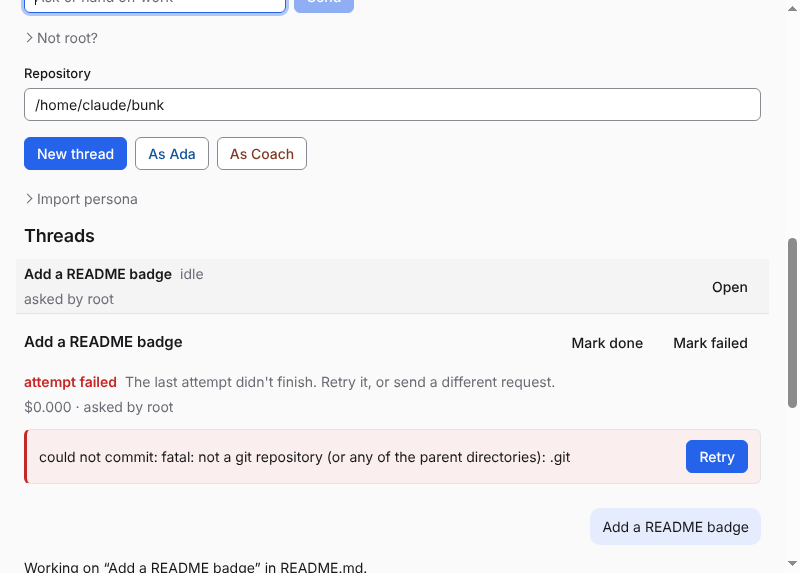
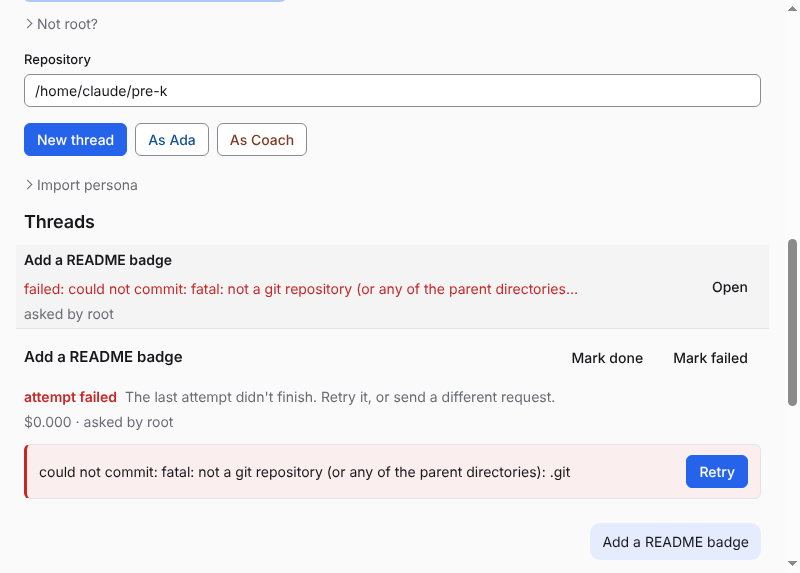
Threads: the list says "failed" when a thread's latest attempt failed
Main follows each pre-k thread's transcript while it works (app/threads/attempts.ts, fed by agents.watchThreads) and
records lastAttempt on its row when a turn ends or the thread comes to rest; threads.start and threads.followUp record
a message Point couldn't deliver. threadState takes the attempt: failed at rest, working again while it retries. The
list row reads "failed: <first line of the error>". Tour screenshots refreshed.

Claude-Session: https://claude.ai/code/session_01Vf1CvuVV6JbuxZTf8p59C4

diff --git a/app/threads/attempts.test.ts b/app/threads/attempts.test.ts
@@ -1,0 +1,92 @@
+import { testClient } from "point/rpc/testing";
+import { afterAll, beforeEach, describe, expect, it } from "vitest";
+import threads from "../collections/threads.collection";
+import outputs from "../collections/thread-outputs.collection";
+import router from "../rpc/threads";
+import { createAttemptWatcher, recordAttempt } from "./attempts";
+
+// In-memory collections through a test client of the threads router.
+const client = testClient(router, { caller: "window:main", collections: { threads, "thread-outputs": outputs } });
+const { collections } = client;
+afterAll(() => client.close());
+
+const row = { threadId: "t1", projectId: "p1", title: "T", request: "r", requestedBy: "Zack", createdAt: 1, updatedAt: 1 };
+beforeEach(() => collections.replace("threads", [row]));
+
+/** A fake agents.events: plays `events`, then stays open until aborted, like the live stream. */
+function fakeStream(events: unknown[]) {
+  const opened: string[] = [];
+  return {
+    opened,
+    rpc: {
+      stream(_path: string, input: unknown, options?: { signal?: AbortSignal }): AsyncIterable<unknown> {
+        opened.push(JSON.stringify(input));
+        return (async function* () {
+          yield* events;
+          await new Promise<void>((resolve) => options?.signal?.addEventListener("abort", () => resolve(), { once: true }));
+        })();
+      },
+    },
+  };
+}
+
+const user = (text: string) => ({ type: "user", text, turn: "start" });
+const end = (status: string) => ({ type: "turn.end", turnId: "x", status });
+const until = async (check: () => boolean) => {
+  for (let i = 0; i < 100 && !check(); i++) await new Promise((r) => setTimeout(r, 5));
+};
+
+describe("createAttemptWatcher", () => {
+  it("records a failed turn on the row while the thread works, and only watches pre-k's threads", async () => {
+    const s = fakeStream([user("a"), { type: "text", itemId: "i", text: "hi", done: true }, { type: "error", message: "boom" }, end("failed")]);
+    const ac = new AbortController();
+    const w = createAttemptWatcher({ rpc: s.rpc, collections, signal: ac.signal, graceMs: 1 });
+    w.update(new Map([["t1", "running"], ["other", "running"]]));
+    await until(() => collections.get("threads", "t1")?.lastAttempt !== undefined);
+    expect(collections.get("threads", "t1")?.lastAttempt).toMatchObject({ failed: true, message: "boom" });
+    expect(s.opened).toEqual([JSON.stringify({ threadId: "t1" })]);
+    // Still busy: the same stream, not a second one.
+    w.update(new Map([["t1", "running"]]));
+    expect(s.opened).toHaveLength(1);
+    ac.abort();
+  });
+
+  it("clears the failure when the next turn completes, and stops reading once the thread is at rest", async () => {
+    await recordAttempt(collections, "t1", true, "boom");
+    const s = fakeStream([user("a"), end("failed"), user("again"), end("completed")]);
+    const ac = new AbortController();
+    const w = createAttemptWatcher({ rpc: s.rpc, collections, signal: ac.signal, graceMs: 1 });
+    w.update(new Map([["t1", "running"]]));
+    w.update(new Map([["t1", "idle"]]));
+    await until(() => collections.get("threads", "t1")?.lastAttempt?.failed === false);
+    expect(collections.get("threads", "t1")?.lastAttempt).toMatchObject({ failed: false });
+    // A later busy spell opens the transcript again.
+    await until(() => false);
+    w.update(new Map([["t1", "starting"]]));
+    expect(s.opened).toHaveLength(2);
+    ac.abort();
+  });
+
+  it("records an attempt whose harness never started once the thread is at rest", async () => {
+    const s = fakeStream([user("a"), { type: "error", message: "missing ANTHROPIC_API_KEY" }]);
+    const ac = new AbortController();
+    const w = createAttemptWatcher({ rpc: s.rpc, collections, signal: ac.signal, graceMs: 1 });
+    w.update(new Map([["t1", "starting"]]));
+    w.update(new Map([["t1", "stopped"]]));
+    await until(() => collections.get("threads", "t1")?.lastAttempt !== undefined);
+    expect(collections.get("threads", "t1")?.lastAttempt).toMatchObject({ failed: true, message: "missing ANTHROPIC_API_KEY" });
+    ac.abort();
+  });
+});
+
+describe("recordAttempt", () => {
+  it("writes a change once and leaves an unknown thread alone", async () => {
+    await recordAttempt(collections, "t1", true, "boom");
+    const first = collections.get("threads", "t1")?.lastAttempt?.at;
+    await new Promise((r) => setTimeout(r, 2));
+    await recordAttempt(collections, "t1", true, "boom");
+    expect(collections.get("threads", "t1")?.lastAttempt?.at).toBe(first);
+    await recordAttempt(collections, "nope", true);
+    expect(collections.get("threads", "nope")).toBeUndefined();
+  });
+});

diff --git a/app/threads/attempts.ts b/app/threads/attempts.ts
@@ -1,0 +1,86 @@
+import type { Collections, MainCalls } from "point/app";
+import type { ThreadEventBody, ThreadStatus } from "point/agent";
+import { z } from "zod";
+import { lastAttempt } from "./state";
+
+// The events an attempt's outcome depends on (Point doesn't export its event schema); the rest are skipped.
+const attemptEvent = z.discriminatedUnion("type", [
+  z.object({ type: z.literal("user"), text: z.string(), turn: z.enum(["start", "steer", "queue"]) }),
+  z.object({ type: z.literal("turn.end"), turnId: z.string(), status: z.enum(["completed", "interrupted", "failed"]) }),
+  z.object({ type: z.literal("error"), message: z.string() }),
+]);
+
+const BUSY: ReadonlySet<ThreadStatus> = new Set(["starting", "running", "parked", "paused"]);
+
+/** Record how a thread's latest attempt went on its row, so the list can say "failed". Unchanged outcomes write nothing. */
+export async function recordAttempt(
+  collections: Pick<Collections, "get" | "upsert">,
+  threadId: string,
+  failed: boolean,
+  message?: string,
+) {
+  const row = collections.get("threads", threadId);
+  if (!row) return;
+  const before = row.lastAttempt;
+  if (before && before.failed === failed && before.message === message) return;
+  const now = Date.now();
+  await collections.upsert("threads", [
+    { ...row, lastAttempt: { failed, ...(message !== undefined ? { message } : {}), at: now }, updatedAt: now },
+  ]);
+}
+
+/**
+ * Follows the transcript of each pre-k thread while it works, and records its latest attempt when a turn ends, and
+ * once more when the thread comes to rest (an attempt whose harness never started has an error but no turn). Point's
+ * thread list carries only status, and a window shouldn't open every transcript, so main does it once per busy spell.
+ * Feed it each `agents.watchThreads` list, as a map of status by thread id, through `update`.
+ */
+export function createAttemptWatcher(o: {
+  rpc: Pick<MainCalls, "stream">;
+  collections: Pick<Collections, "get" | "upsert">;
+  signal: AbortSignal;
+  /** How long after a thread comes to rest to keep reading, for events that arrive after the status change. */
+  graceMs?: number;
+}) {
+  const graceMs = o.graceMs ?? 2000;
+  const open = new Map<string, { ac: AbortController; timer?: ReturnType<typeof setTimeout> | undefined }>();
+
+  const settle = async (threadId: string, events: readonly ThreadEventBody[]) => {
+    const a = lastAttempt(events);
+    if (a.request !== undefined) await recordAttempt(o.collections, threadId, a.failed, a.message);
+  };
+
+  const watch = async (threadId: string) => {
+    const ac = new AbortController();
+    const stop = () => ac.abort();
+    o.signal.addEventListener("abort", stop, { once: true });
+    open.set(threadId, { ac });
+    const events: ThreadEventBody[] = [];
+    try {
+      for await (const raw of o.rpc.stream("agents.events", { threadId }, { signal: ac.signal })) {
+        const e = attemptEvent.safeParse(raw);
+        if (!e.success) continue;
+        events.push(e.data);
+        if (e.data.type === "turn.end") await settle(threadId, events);
+      }
+    } catch {
+      // Aborted at rest, or the daemon restarted: the next busy status opens it again.
+    } finally {
+      o.signal.removeEventListener("abort", stop);
+      open.delete(threadId);
+      if (!o.signal.aborted) await settle(threadId, events);
+    }
+  };
+
+  return {
+    update(statuses: ReadonlyMap<string, ThreadStatus>) {
+      for (const [id, status] of statuses) {
+        const w = open.get(id);
+        if (BUSY.has(status)) {
+          if (w?.timer) w.timer = void clearTimeout(w.timer);
+          else if (!w && o.collections.get("threads", id)) void watch(id);
+        } else if (w && !w.timer) w.timer = setTimeout(() => w.ac.abort(), graceMs);
+      }
+    },
+  };
+}

diff --git a/app/screens/threads.tsx b/app/screens/threads.tsx
@@ -29,7 +29,7 @@ const stateWords: Record<ThreadState, { text: string; tone: "default" | "muted" 
   review_ready: { text: "ready for review", tone: "default", help: "Opened a pull request. Review it, or follow up with changes." },
   landed: { text: "landed", tone: "default", help: "Committed its work. Follow up to ask for more." },
   done: { text: "done", tone: "muted", help: "Marked done. A follow-up reopens it." },
-  failed: { text: "failed", tone: "danger", help: "Marked failed. Retry it, or follow up to reopen it." },
+  failed: { text: "failed", tone: "danger", help: "Failed. Open it to see why, then retry or follow up." },
   stopped: { text: "stopped", tone: "muted", help: "Stopped. A follow-up reopens it." },
   interrupted: { text: "interrupted", tone: "danger", help: "Cut off mid-turn. Retry to send the request again." },
   idle: { text: "idle", tone: "muted", help: "Finished its turn without landing any work. Follow up to ask for more." },
@@ -40,6 +40,12 @@ const attemptFailed: (typeof stateWords)[ThreadState] = {
   text: "attempt failed",
   tone: "danger",
   help: "The last attempt didn't finish. Retry it, or send a different request.",
+};
+
+/** The first line of an error, at most 80 characters. */
+const short = (message: string | undefined) => {
+  const line = message?.split("\n")[0]?.trim();
+  return line && line.length > 80 ? `${line.slice(0, 79)}…` : line || undefined;
 };
 
 /** "commit 3f9c2e1 on main" or "PR #12": what a thread delivered, in a list row. */
@@ -86,7 +92,10 @@ export function Threads({
         <List label="Threads">
           {rows.map((t) => {
             const prs = produced.filter((o) => o.threadId === t.threadId);
-            const state = stateWords[threadState(statusOf.get(t.threadId), t.endedAs, prs)];
+            const named = threadState(statusOf.get(t.threadId), t.endedAs, prs, t.lastAttempt);
+            const state = stateWords[named];
+            // Why it failed, in a few words, so the list says what went wrong without opening the thread.
+            const why = named === "failed" && !t.endedAs ? short(t.lastAttempt?.message) : undefined;
             return (
               <ListItem
                 key={t.threadId}
@@ -99,7 +108,7 @@ export function Threads({
                 <Stack gap={4}>
                   <Stack direction="row" gap={8} align="baseline" wrap>
                     <Text bold>{t.title}</Text>
-                    <Text tone={state.tone}>{state.text}</Text>
+                    <Text tone={state.tone}>{why ? `${state.text}: ${why}` : state.text}</Text>
                   </Stack>
                   <Stack direction="row" gap={8} wrap>
                     {prs.length > 0 ? (

diff --git a/app/rpc/threads.ts b/app/rpc/threads.ts
@@ -4,6 +4,7 @@ import os from "node:os";
 import path from "node:path";
 import { z } from "zod";
 import { preparedWorkspace as prepared } from "../schemas/workspace";
+import { recordAttempt } from "../threads/attempts";
 import { callerThread, outputKey, threadState } from "../threads/state";
 
 const status = z.enum(["starting", "running", "parked", "paused", "idle", "stopped", "interrupted"]);
@@ -151,6 +152,8 @@ export default defineRouter({
         by: input.requestedBy,
       });
       const r = sent.ok ? receipt.safeParse(sent.value) : undefined;
+      // A harness that can't start (no key, no binary) never runs a turn: record the failure for the list here.
+      if (!sent.ok) await recordAttempt(collections, threadId.data, true, messageOf(sent.failure));
       return {
         threadId: threadId.data,
         branch: workspace?.branch,
@@ -189,7 +192,7 @@ export default defineRouter({
             requestedBy: t.requestedBy,
             repo: t.repo,
             branch: t.branch,
-            state: threadState(statusOf.get(t.threadId), t.endedAs, mine),
+            state: threadState(statusOf.get(t.threadId), t.endedAs, mine, t.lastAttempt),
             outputs: mine,
             updatedAt: t.updatedAt,
           };
@@ -256,7 +259,10 @@ export default defineRouter({
         turn: "queue",
         ...(input.by ? { by: input.by } : {}),
       });
-      if (!sent.ok) return fail("SEND_FAILED", { message: messageOf(sent.failure) });
+      if (!sent.ok) {
+        await recordAttempt(collections, input.threadId, true, messageOf(sent.failure));
+        return fail("SEND_FAILED", { message: messageOf(sent.failure) });
+      }
       const r = receipt.safeParse(sent.value);
       return { reopened: thread.endedAs !== undefined, message: r.success ? r.data : ("delivered" as const) };
     }),

diff --git a/app/threads/state.ts b/app/threads/state.ts
@@ -20,7 +20,7 @@ export type OutputLike =
   | { kind: "commit"; repo: string; sha: string; branch: string };
 
 /**
- * `endedAs` wins: a person or the coordinator closed the thread. Otherwise Point's status decides. An idle thread that
+ * `endedAs` wins: a person or the coordinator closed the thread. Then a failed latest `attempt` on a thread at rest. Otherwise Point's status decides. An idle thread that
  * opened a PR is waiting for review; one that landed commits (no PR) has landed its work. `status` is undefined when
  * the agents daemon has no such thread.
  */
@@ -28,8 +28,11 @@ export function threadState(
   status: ThreadStatus | undefined,
   endedAs: EndedAs | undefined,
   outputs: readonly OutputLike[],
+  attempt?: { failed: boolean } | undefined,
 ): ThreadState {
   if (endedAs) return endedAs;
+  // A finished thread whose latest attempt failed is failed until the next attempt; a running one is working again.
+  if (attempt?.failed && (status === undefined || status === "idle" || status === "stopped")) return "failed";
   switch (status) {
     case "starting":
     case "running":

diff --git a/app/main.ts b/app/main.ts
@@ -1,5 +1,6 @@
 import { defineMain } from "point/app";
 import { z } from "zod";
+import { createAttemptWatcher } from "./threads/attempts";
 import { createOutbox, createRelay } from "./threads/relay";
 
 const pointThreads = z.array(
@@ -17,6 +18,8 @@ export default defineMain({
   ready({ rpc, collections, stores }) {
     const relay = createRelay();
     const outbox = createOutbox();
+    // The list's "failed" (Threads): how each thread's latest attempt went, read from its transcript while it works.
+    const attempts = createAttemptWatcher({ rpc, collections, signal: ac.signal });
     let status = new Map<string, z.infer<typeof pointThreads>[number]["status"]>();
     let seeded = false;
 
@@ -47,6 +50,7 @@ export default defineMain({
         try {
           for await (const list of rpc.stream("agents.watchThreads", {}, { signal: ac.signal })) {
             status = new Map(pointThreads.parse(list).map((t) => [t.id, t.status]));
+            attempts.update(status);
             await tick();
           }
         } catch {

diff --git a/app/threads/state.test.ts b/app/threads/state.test.ts
@@ -43,6 +43,19 @@ describe("helpers", () => {
   });
 });
 
+describe("threadState with the latest attempt", () => {
+  it("is failed at rest after a failed attempt, working while it retries, and closed wins", () => {
+    const failed = { failed: true };
+    expect(threadState("idle", undefined, [commit], failed)).toBe("failed");
+    expect(threadState("stopped", undefined, [], failed)).toBe("failed");
+    expect(threadState(undefined, undefined, [], failed)).toBe("failed");
+    expect(threadState("running", undefined, [], failed)).toBe("working");
+    expect(threadState("paused", undefined, [], failed)).toBe("blocked");
+    expect(threadState("idle", "done", [], failed)).toBe("done");
+    expect(threadState("idle", undefined, [commit], { failed: false })).toBe("landed");
+  });
+});
+
 describe("lastAttempt", () => {
   const user = (text: string) => ({ type: "user", text, turn: "start" }) as const;
   const end = (status: "completed" | "interrupted" | "failed") => ({ type: "turn.end", turnId: "x", status }) as const;

diff --git a/app/rpc/threads-followup.test.ts b/app/rpc/threads-followup.test.ts
@@ -59,6 +59,8 @@ describe("threads.followUp", () => {
     answer = { ok: false, failure: { code: "INTERNAL", detail: { message: "no API key" } } };
     const r = await window.rpc.followUp({ threadId: "t1", text: "Retry it" });
     expect(!r.ok && r.failure).toMatchObject({ code: "SEND_FAILED", detail: { message: "INTERNAL: no API key" } });
+    // The list says "failed" for it.
+    expect(window.collections.get("threads", "t1")?.lastAttempt).toMatchObject({ failed: true, message: "INTERNAL: no API key" });
   });
 
   it("refuses an unknown thread, an empty message and a thread's own agent", async () => {

diff --git a/app/collections/threads.collection.ts b/app/collections/threads.collection.ts
@@ -15,6 +15,9 @@ export default defineCollection({
     branch: z.string().optional(),
     worktree: z.string().optional(),
     endedAs: z.enum(["done", "failed", "stopped"]).optional(),
+    // How the latest attempt went, so the list can say "failed" without opening every transcript. Main writes it when a
+    // turn ends (app/threads/attempts.ts) or a message can't be delivered.
+    lastAttempt: z.object({ failed: z.boolean(), message: z.string().optional(), at: z.number() }).optional(),
     createdAt: z.number(),
     updatedAt: z.number(),
   }),
